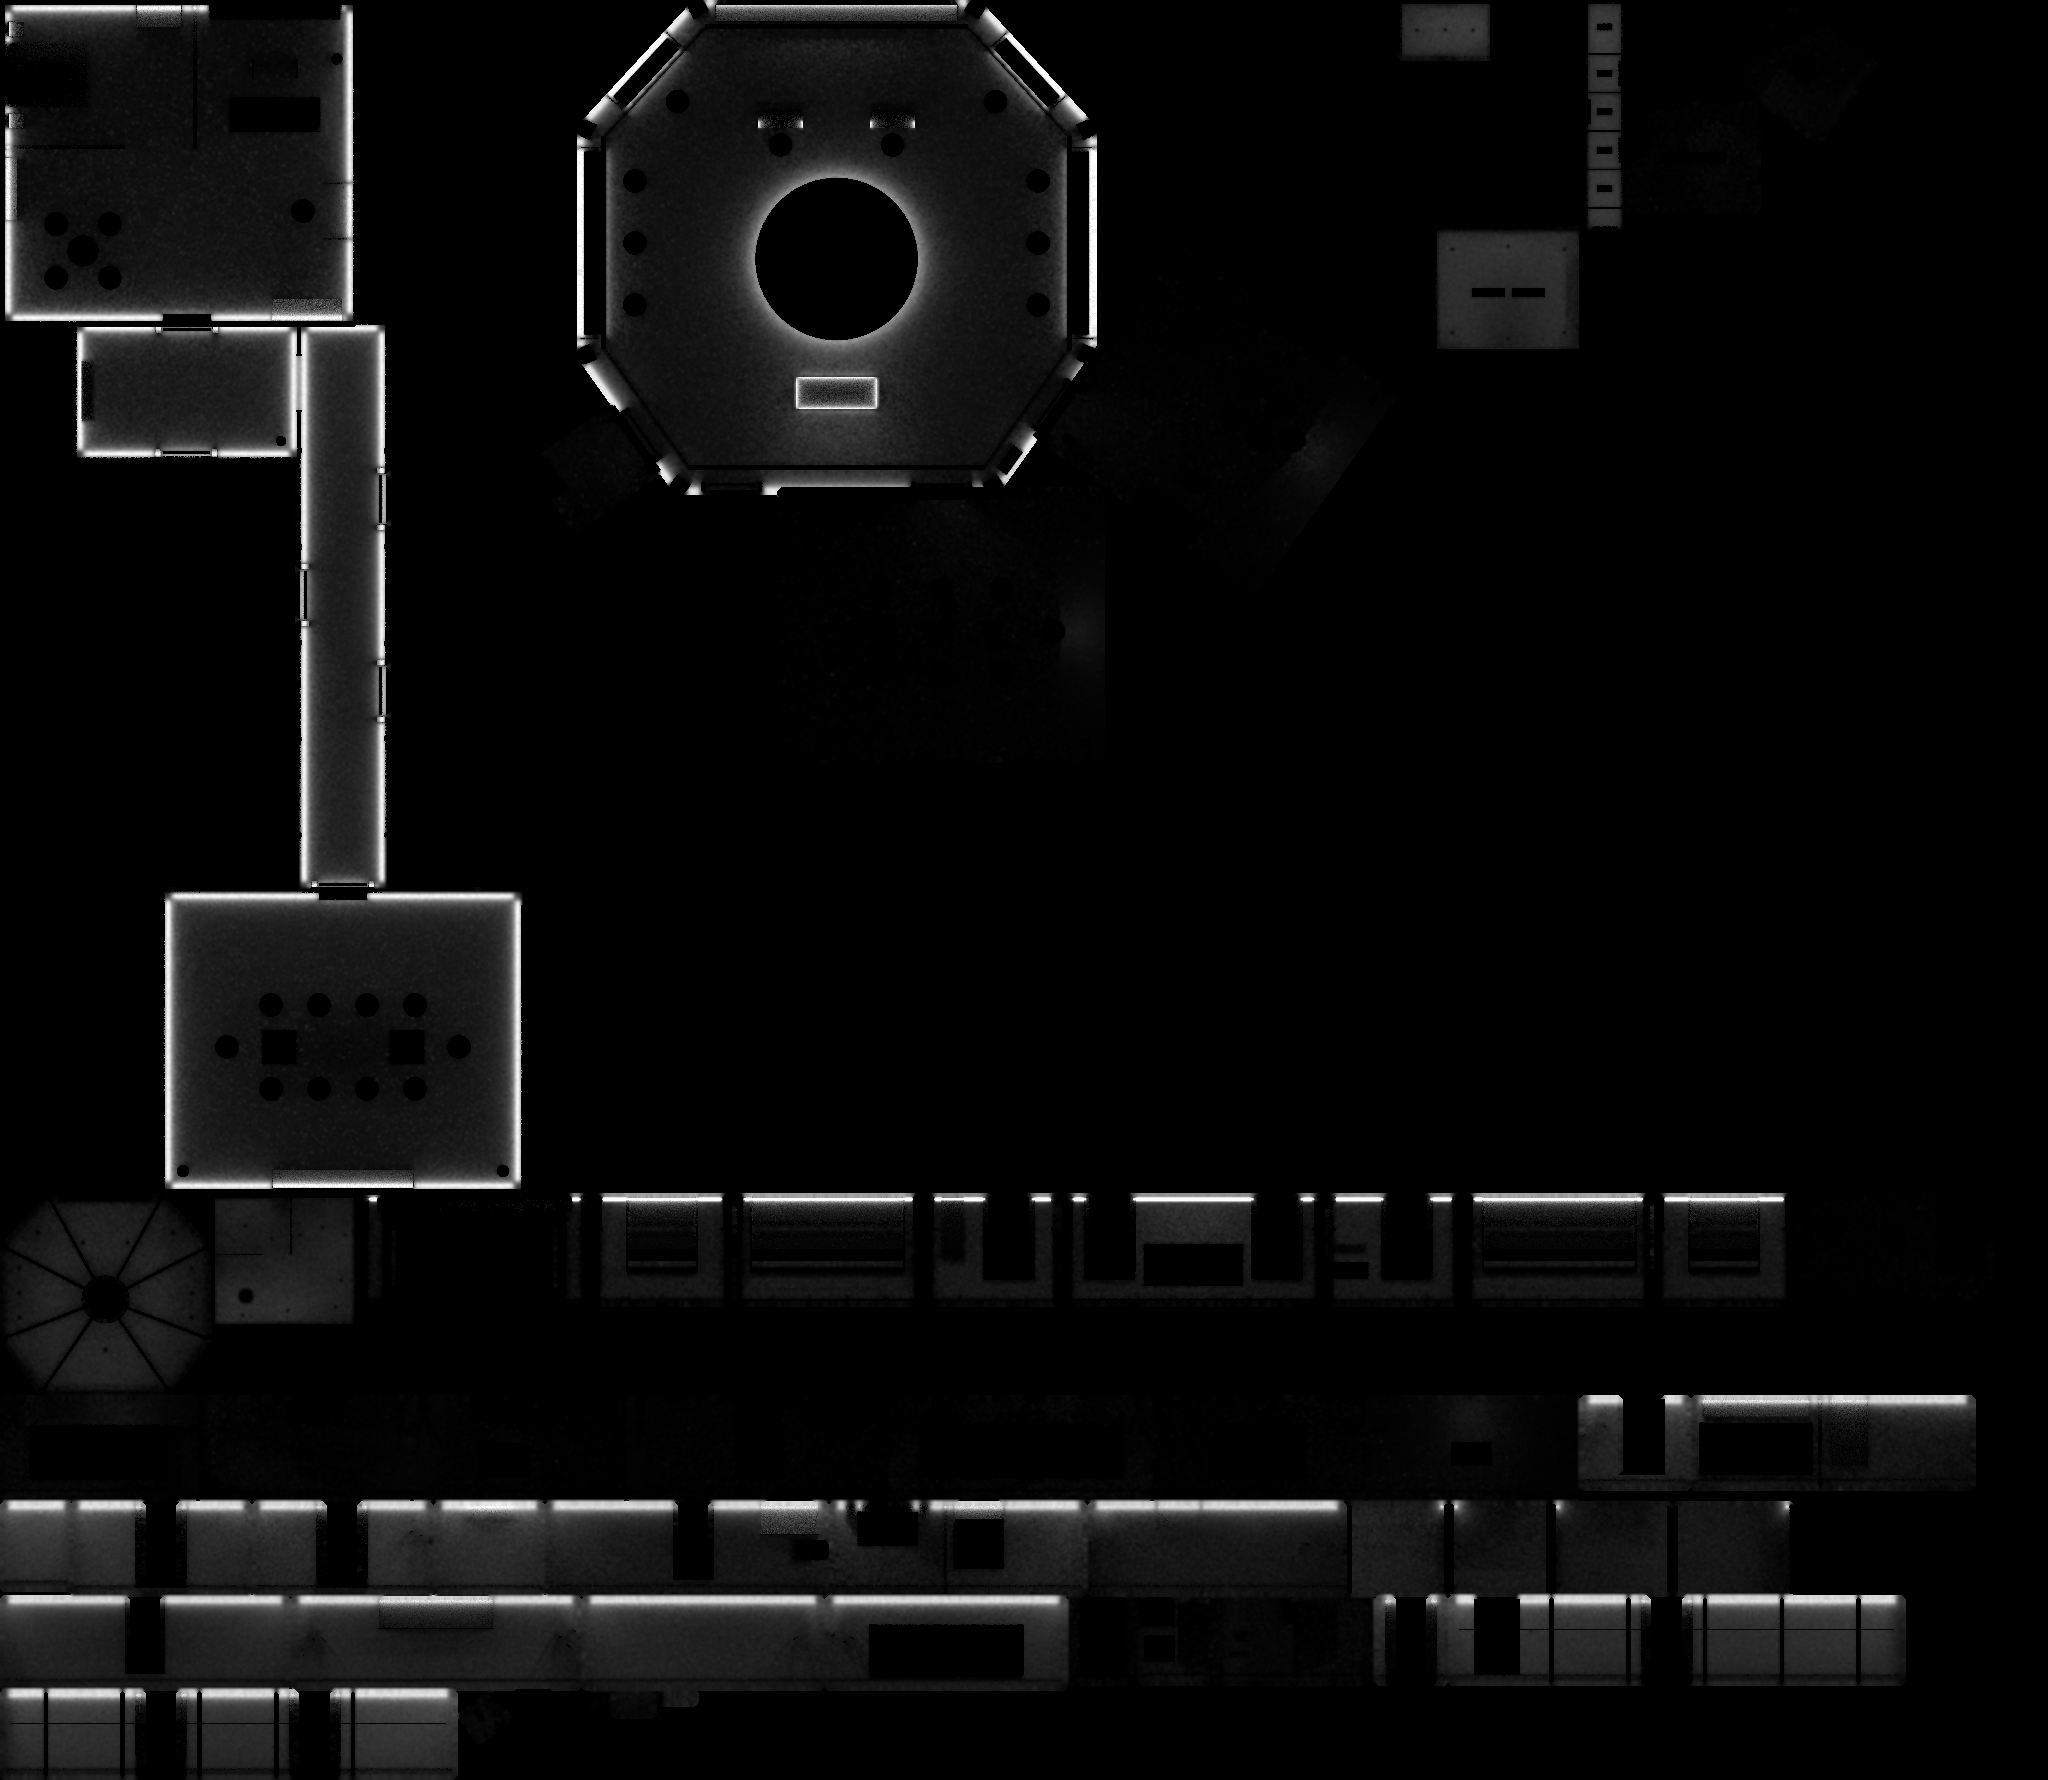
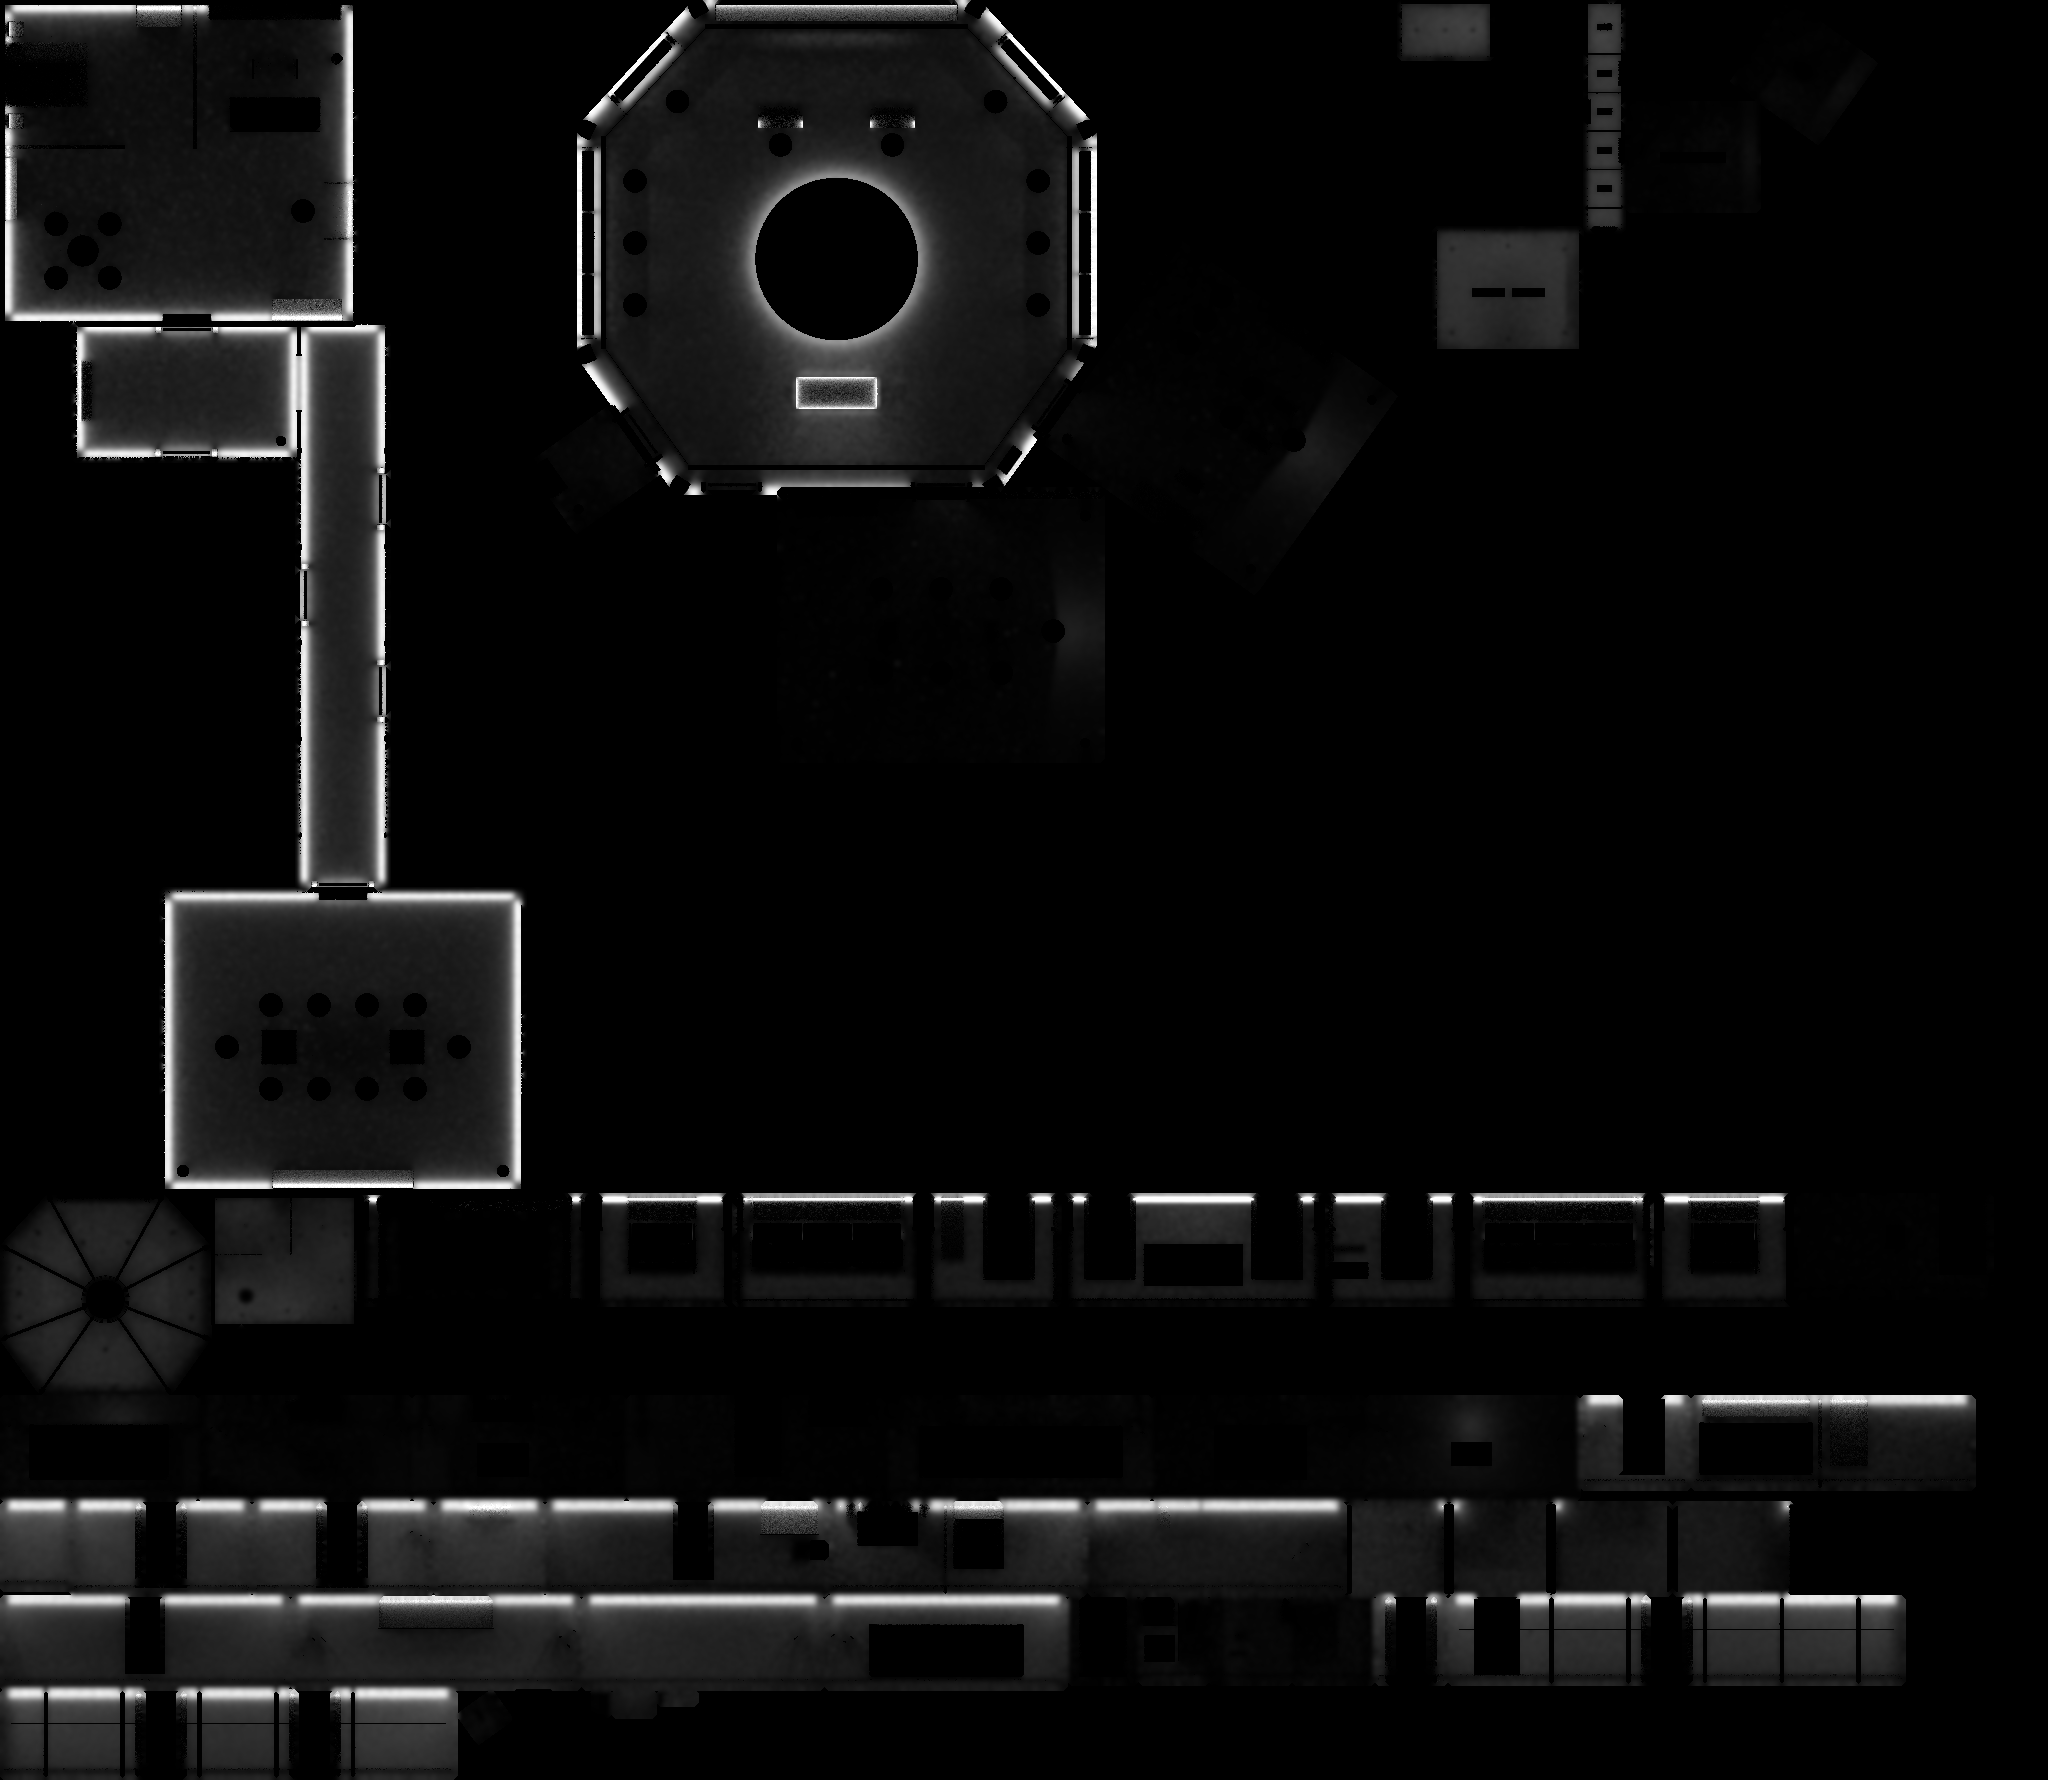
Bridge visual pass: clean wall panels, station tags, re-bake
- Wall panels: tan inset tint removed (read as staining), lighter grain, small
  dark-red ID tags on the upper panels
- Light map smoothed harder per surface in bake_encode (LM_EXTRA), which removes
  the cloudy blotches from low-sample noise on big flat walls; re-baked at 160
- Small labelled tags over each station's upper displays (troika text)
- troika font is now woff (its parser rejects woff2)
- Sheets: docs/screens-pass3-before-after.jpg, phone-screens-pass3.jpg,
  science-station-pass3.jpg, screens-pass3.jpg

Claude-Session: https://claude.ai/code/session_01AcEqm84AWoFhjK5QGjj4pa

diff --git a/js/bridge.js b/js/bridge.js
@@ -239,7 +239,7 @@ const GRILLE = (() => {
 const BTN_MATS = ['#E8A06A', '#D9B07E', '#B693C4', '#F2C88F', '#C67A86'].map((h) => new THREE.MeshBasicMaterial({ color: new THREE.Color(h).multiplyScalar(0.85), toneMapped: false }));
 // Crisp text in 3D space (troika-three-text: glyphs drawn from the font's outlines as signed-distance fields, so the
 // edges stay sharp at any distance). Returns null when the library didn't load, so callers fall back to canvas text.
-const FONT3D = 'fonts/antonio-600.woff2';
+const FONT3D = 'fonts/antonio-600.woff'; // woff, not woff2: troika's parser doesn't read woff2
 function text3d(parent, txt, size, color, x, y, z, anchorX) {
   if (!THREE.TroikaText) return null;
   const t = new THREE.TroikaText();
@@ -267,6 +267,8 @@ const MAT_FRAME = triSurface(new THREE.MeshStandardMaterial({ color: 0x423d37, r
 const MAT_BEZEL = triSurface(new THREE.MeshStandardMaterial({ color: 0x332e29, roughness: 0.5, metalness: 0.05, envMapIntensity: 0.35 }), { set: 'paint', metres: 0.7, ns: 0.6, rv: 0.6, edge: 0.35 });
 const MAT_SLAT = new THREE.MeshStandardMaterial({ color: 0x1e1c1a, roughness: 0.38, metalness: 0.55, envMapIntensity: 0.6 });
 const MAT_VOID = new THREE.MeshBasicMaterial({ color: 0x000000 });
+const TAG_MAT = new THREE.MeshStandardMaterial({ color: 0x5a1a1e, roughness: 0.45, metalness: 0.2, envMapIntensity: 0.4 });
+const TAG_INK = new THREE.MeshBasicMaterial({ color: 0xE8D8C0, toneMapped: false });
 // many small boxes merged into one mesh (the grille slats), so the run stays a handful of draw calls
 const _merged = new Map();
 function mergedBoxes(key, list) {
@@ -425,6 +427,12 @@ function bay(parent, lx, wallW, p, holes) {
     const sp = spill(sg, sw, sh, 0.1); sp.position.z = 0.004;
   });
   const sg = group(0, 2.3, -0.048, 0, b); sg.rotation.x = 0.35; addScreen(sg, w, 0.13, 760, 80, 'strip', p.id, p.title, p.code);
+  // small dark-red tags in the frame's top margin over each display, like stencilled panel labels
+  [[mx - mw / 2 + 0.09, 'A'], [ax - aw / 2 + 0.07, 'B']].forEach(([tx, sfx], i) => {
+    const tg = mesh(BOX(0.13, 0.03, 0.004), TAG_MAT, tx, FY + FH / 2 - 0.045, -0.184, b);
+    mesh(BOX(0.022, 0.018, 0.002), TAG_INK, -0.045, 0, 0.003, tg);
+    if (!text3d(tg, String(p.code).replace('·', ' ') + sfx, 0.016, 0xE8D8C0, -0.028, 0, 0.0025)) mesh(BOX(0.07, 0.004, 0.002), TAG_INK, 0.015, 0, 0.003, tg);
+  });
   idPlate(b, p.code, -W / 2 + 0.2, 1.315, -0.138, 0.2);
   // the desk display fills the desk; a hooded viewer stands up at the back on the left
   deskSurface(d, W, 0.46, 0.0325, 0.03, p, p.kind, -W * 0.26);

diff --git a/js/materials.js b/js/materials.js
@@ -34,11 +34,15 @@ function wallCanvases() {
   g.fillStyle = gr; g.fillRect(0, Y(2.72), W, Y(1.02) - Y(2.72));
   [[2.62, 1.92], [1.86, 1.1]].forEach(([top, bot]) => {
     const x0 = 14, x1 = W - 14, y0 = Y(top), y1 = Y(bot);
-    g.fillStyle = 'rgba(176,140,92,0.28)'; g.fillRect(x0, y0, x1 - x0, y1 - y0);
+    g.fillStyle = 'rgba(120,112,100,0.07)'; g.fillRect(x0, y0, x1 - x0, y1 - y0); // a barely-there inset, clean paint
     g.fillStyle = 'rgba(255,250,240,0.5)'; g.fillRect(x0, y1 - 2, x1 - x0, 2); g.fillRect(x1 - 2, y0, 2, y1 - y0);
     g.fillStyle = 'rgba(40,28,18,0.4)'; g.fillRect(x0, y0, x1 - x0, 2); g.fillRect(x0, y0, 2, y1 - y0);
     [[x0 + 8, y0 + 8], [x1 - 8, y0 + 8], [x0 + 8, y1 - 8], [x1 - 8, y1 - 8]].forEach(([fx, fy]) => fastener(g, fx, fy, 2.2));
   });
+  // a small dark-red ID tag on the upper panel and a faint stencil code on the lower one
+  { const tx = 24, ty = Y(2.62) + 14; g.fillStyle = '#5a1a1e'; g.fillRect(tx, ty, 46, 11); g.fillStyle = '#e8d8c0'; g.fillRect(tx + 2, ty + 2, 9, 7);
+    g.fillStyle = 'rgba(232,216,192,0.75)'; g.fillRect(tx + 14, ty + 3, 28, 2); g.fillRect(tx + 14, ty + 7, 18, 1);
+    g.fillStyle = 'rgba(70,62,54,0.35)'; g.font = `600 8px ${MONO}`; g.textBaseline = 'top'; g.fillText('WL-' + 'A4', W - 46, Y(1.86) + 10); }
   // steel rail
   g.fillStyle = '#7d7871'; g.fillRect(0, Y(1.02), W, Y(0.95) - Y(1.02));
   g.fillStyle = 'rgba(255,255,255,0.45)'; g.fillRect(0, Y(1.02), W, 2);
@@ -49,7 +53,7 @@ function wallCanvases() {
   [[20, Y(0.84)], [W - 20, Y(0.84)], [20, Y(0.24)], [W - 20, Y(0.24)], [W / 2, Y(0.84)], [W / 2, Y(0.24)]].forEach(([x, y]) => fastener(g, x, y, 2.6));
   // kick plate
   g.fillStyle = '#262422'; g.fillRect(0, Y(0.12), W, H - Y(0.12));
-  noise(g, W, H, 2600, 0.035, 5);
+  noise(g, W, H, 1400, 0.02, 5);
   // light seams
   g.fillStyle = '#1e1a16'; g.fillRect(0, Y(2.62), 3, Y(1.1) - Y(2.62)); g.fillRect(W - 3, Y(2.62), 3, Y(1.1) - Y(2.62)); g.fillRect(0, Y(2.72) - 3, W, 5);
   ge.fillStyle = '#000'; ge.fillRect(0, 0, W, H);

diff --git a/tools/make_grok_bundle.py b/tools/make_grok_bundle.py
@@ -5,7 +5,7 @@ out = sys.argv[1] if len(sys.argv) > 1 else 'uss-defiance-for-grok.md'
 branch = subprocess.run(['git', 'rev-parse', '--abbrev-ref', 'HEAD'], capture_output=True, text=True).stdout.strip()
 commit = subprocess.run(['git', 'rev-parse', '--short', 'HEAD'], capture_output=True, text=True).stdout.strip()
 DOCS = ['README.md', 'docs/superpowers/specs/2026-11-22-captain-sim-design.md', 'docs/superpowers/plans/2026-11-22-stage1-ship-state.md', 'docs/interface-style-sheet.md']
-FILES = ['index.html'] + ['js/' + f + '.js' for f in ['core', 'sim', 'surfaces', 'materials', 'bridge', 'space', 'rooms', 'lighting', 'bake', 'collision', 'screens', 'sound', 'ui', 'controls', 'render']] + ['tests/sim.test.js']
+FILES = ['index.html'] + ['js/' + f + '.js' for f in ['core', 'sim', 'surfaces', 'materials', 'bridge', 'space', 'rooms', 'deck2', 'lighting', 'bake', 'collision', 'screens', 'sound', 'ui', 'lift', 'controls', 'render']] + ['tests/sim.test.js']
 LANG = {'.js': 'javascript', '.html': 'html', '.md': 'markdown'}
 parts = [f'# USS Defiance: one-file bundle for review\n\nBranch `{branch}` at `{commit}`. Read-only copy for review: suggest changes in words; do not edit the repository.\n\nContents: the docs first, then every source file in load order.\n']
 for p in DOCS + FILES:

diff --git a/tools/bake_encode.py b/tools/bake_encode.py
@@ -26,6 +26,9 @@ meta = {'atlas': scn['atlas'], 'exposure': EXPOSURE, 'strip': 1.0, 'env': 1.0, '
 lw, ls = np.load(os.path.join(work, 'lm_w.npy')), np.load(os.path.join(work, 'lm_s.npy')).mean(2, keepdims=True)
 mask = lw.sum(2) > 0
 lw = blur_masked(lw, mask, 2); ls = blur_masked(ls, mask, 2)
+# big flat walls and ceilings vary slowly: smooth their remaining low-sample noise harder (confined to each surface by
+# the mask), which removes the cloudy blotches without softening the floors' contact shadows much
+LM_EXTRA = int(os.environ.get('LM_EXTRA', 6)); lw = blur_masked(lw, mask, LM_EXTRA); ls = blur_masked(ls, mask, LM_EXTRA)
 mw = float(np.percentile(lw[mask], 99.8)) * 1.1; ms = float(np.percentile(ls[mask], 99.8)) * 1.1
 Image.fromarray(enc(lw, mw)).save(os.path.join(out, 'lm_w.png'), optimize=True)
 Image.fromarray(enc(ls[..., 0], ms)).save(os.path.join(out, 'lm_s.png'), optimize=True)

diff --git a/README.md b/README.md
@@ -70,7 +70,7 @@ Everything here is original: the ship, its layout, the interface language, the i
 - **Layered screens:** every display has a still, dim back layer (deep navy trays laid out under each section, a faint grid, a faint schematic and tiny reference codes) drawn once and cached, with the crisp readouts on top. About four fifths of each screen is still; a few pieces move slowly and continuously (a filling bar, a scope trace, a slow scroll) and single values change on their own independent timings, never in sync.
 - **Surfaces:** every main material has colour, bump detail (a normal map, an image that fakes small bumps and grooves), roughness and contact shading. Floors use photographed sets from [ambientCG](https://ambientcg.com) (free, CC0): Carpet012 on the bridge, Carpet016 recoloured for the ready and conference rooms, Wood018 for the furniture, DiamondPlate008C for the deck edges and head, and a leather grain. Brushed steel, painted-metal detail and screen fingerprints are generated by `tools/make_textures.py`, which also shrinks everything to about 4 MB in `textures/`. Hard surfaces are textured by world position rather than their own layout, so nothing stretches. Wear follows use: polished edges on consoles and desks, scuffed walkways on the bridge floor, grime near the deck, fingerprints on screens. Screens show a fine pixel grid when you lean in.
 - **Rendering:** ACES filmic tone mapping, a faint haze, reflections taken from the baked room, and post effects from [postprocessing](https://github.com/pmndrs/postprocessing) (MIT): a soft mip-mapped bloom for screen glow, plus [N8AO](https://github.com/N8python/n8ao) (MIT) ambient occlusion, the soft contact shadows where surfaces meet, on desktop only. If those libraries can't load, three.js's own bloom is used.
-- **3D text:** station ID plates and door labels use [troika-three-text](https://github.com/protectwise/troika) (MIT), which draws each letter from the font's outline as a signed-distance field, so text stays sharp at any distance. The font is Antonio (SIL Open Font License, `fonts/OFL-antonio.txt`), bundled in `fonts/`.
+- **3D text:** station ID plates and door labels use [troika-three-text](https://github.com/protectwise/troika) (MIT), which draws each letter from the font's outline as a signed-distance field, so text stays sharp at any distance. The font is Antonio (SIL Open Font License, `fonts/OFL-antonio.txt`), bundled in `fonts/` as woff (troika cannot read woff2).
 - **Re-baking the light** (needed after moving any fixed geometry; the ship warns in the console and falls back to the old light if the bake no longer matches):
   1. `python3 tools/bake_export.py . <work>`: opens the ship headlessly and writes its geometry and fixtures.
   2. `<venv>/bin/python tools/bake_blender.py <work> 160`: renders the light with Blender's Cycles (`pip install bpy` into a virtual environment). About 12 minutes on two cores at 160 samples.
